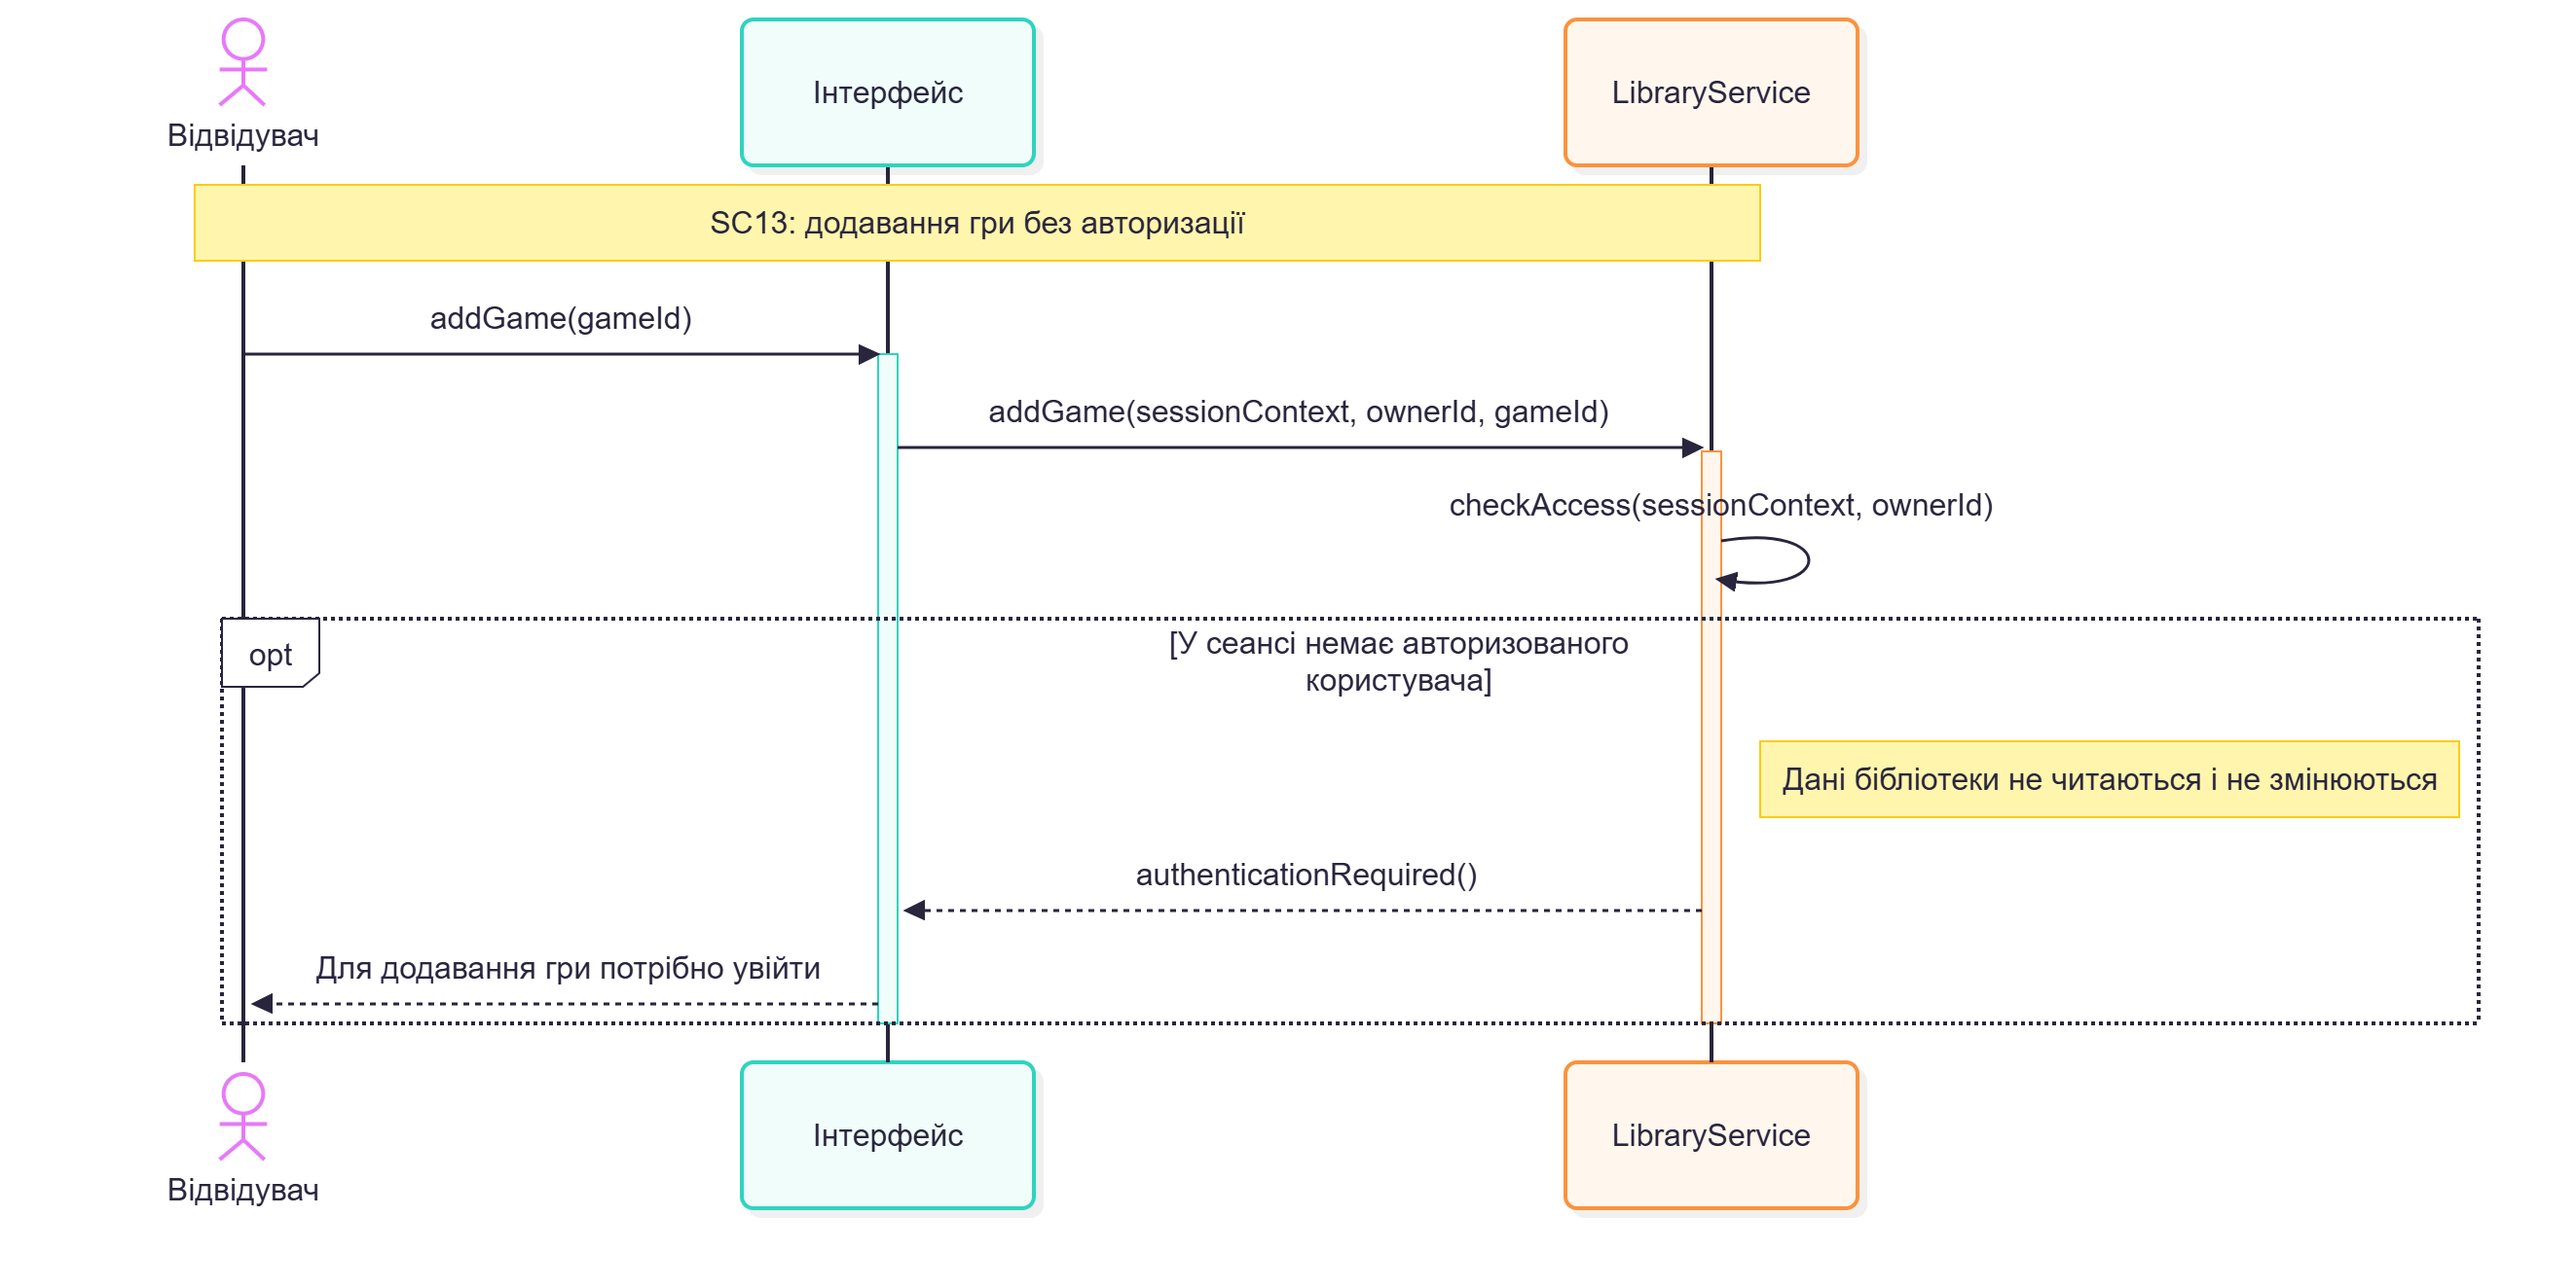
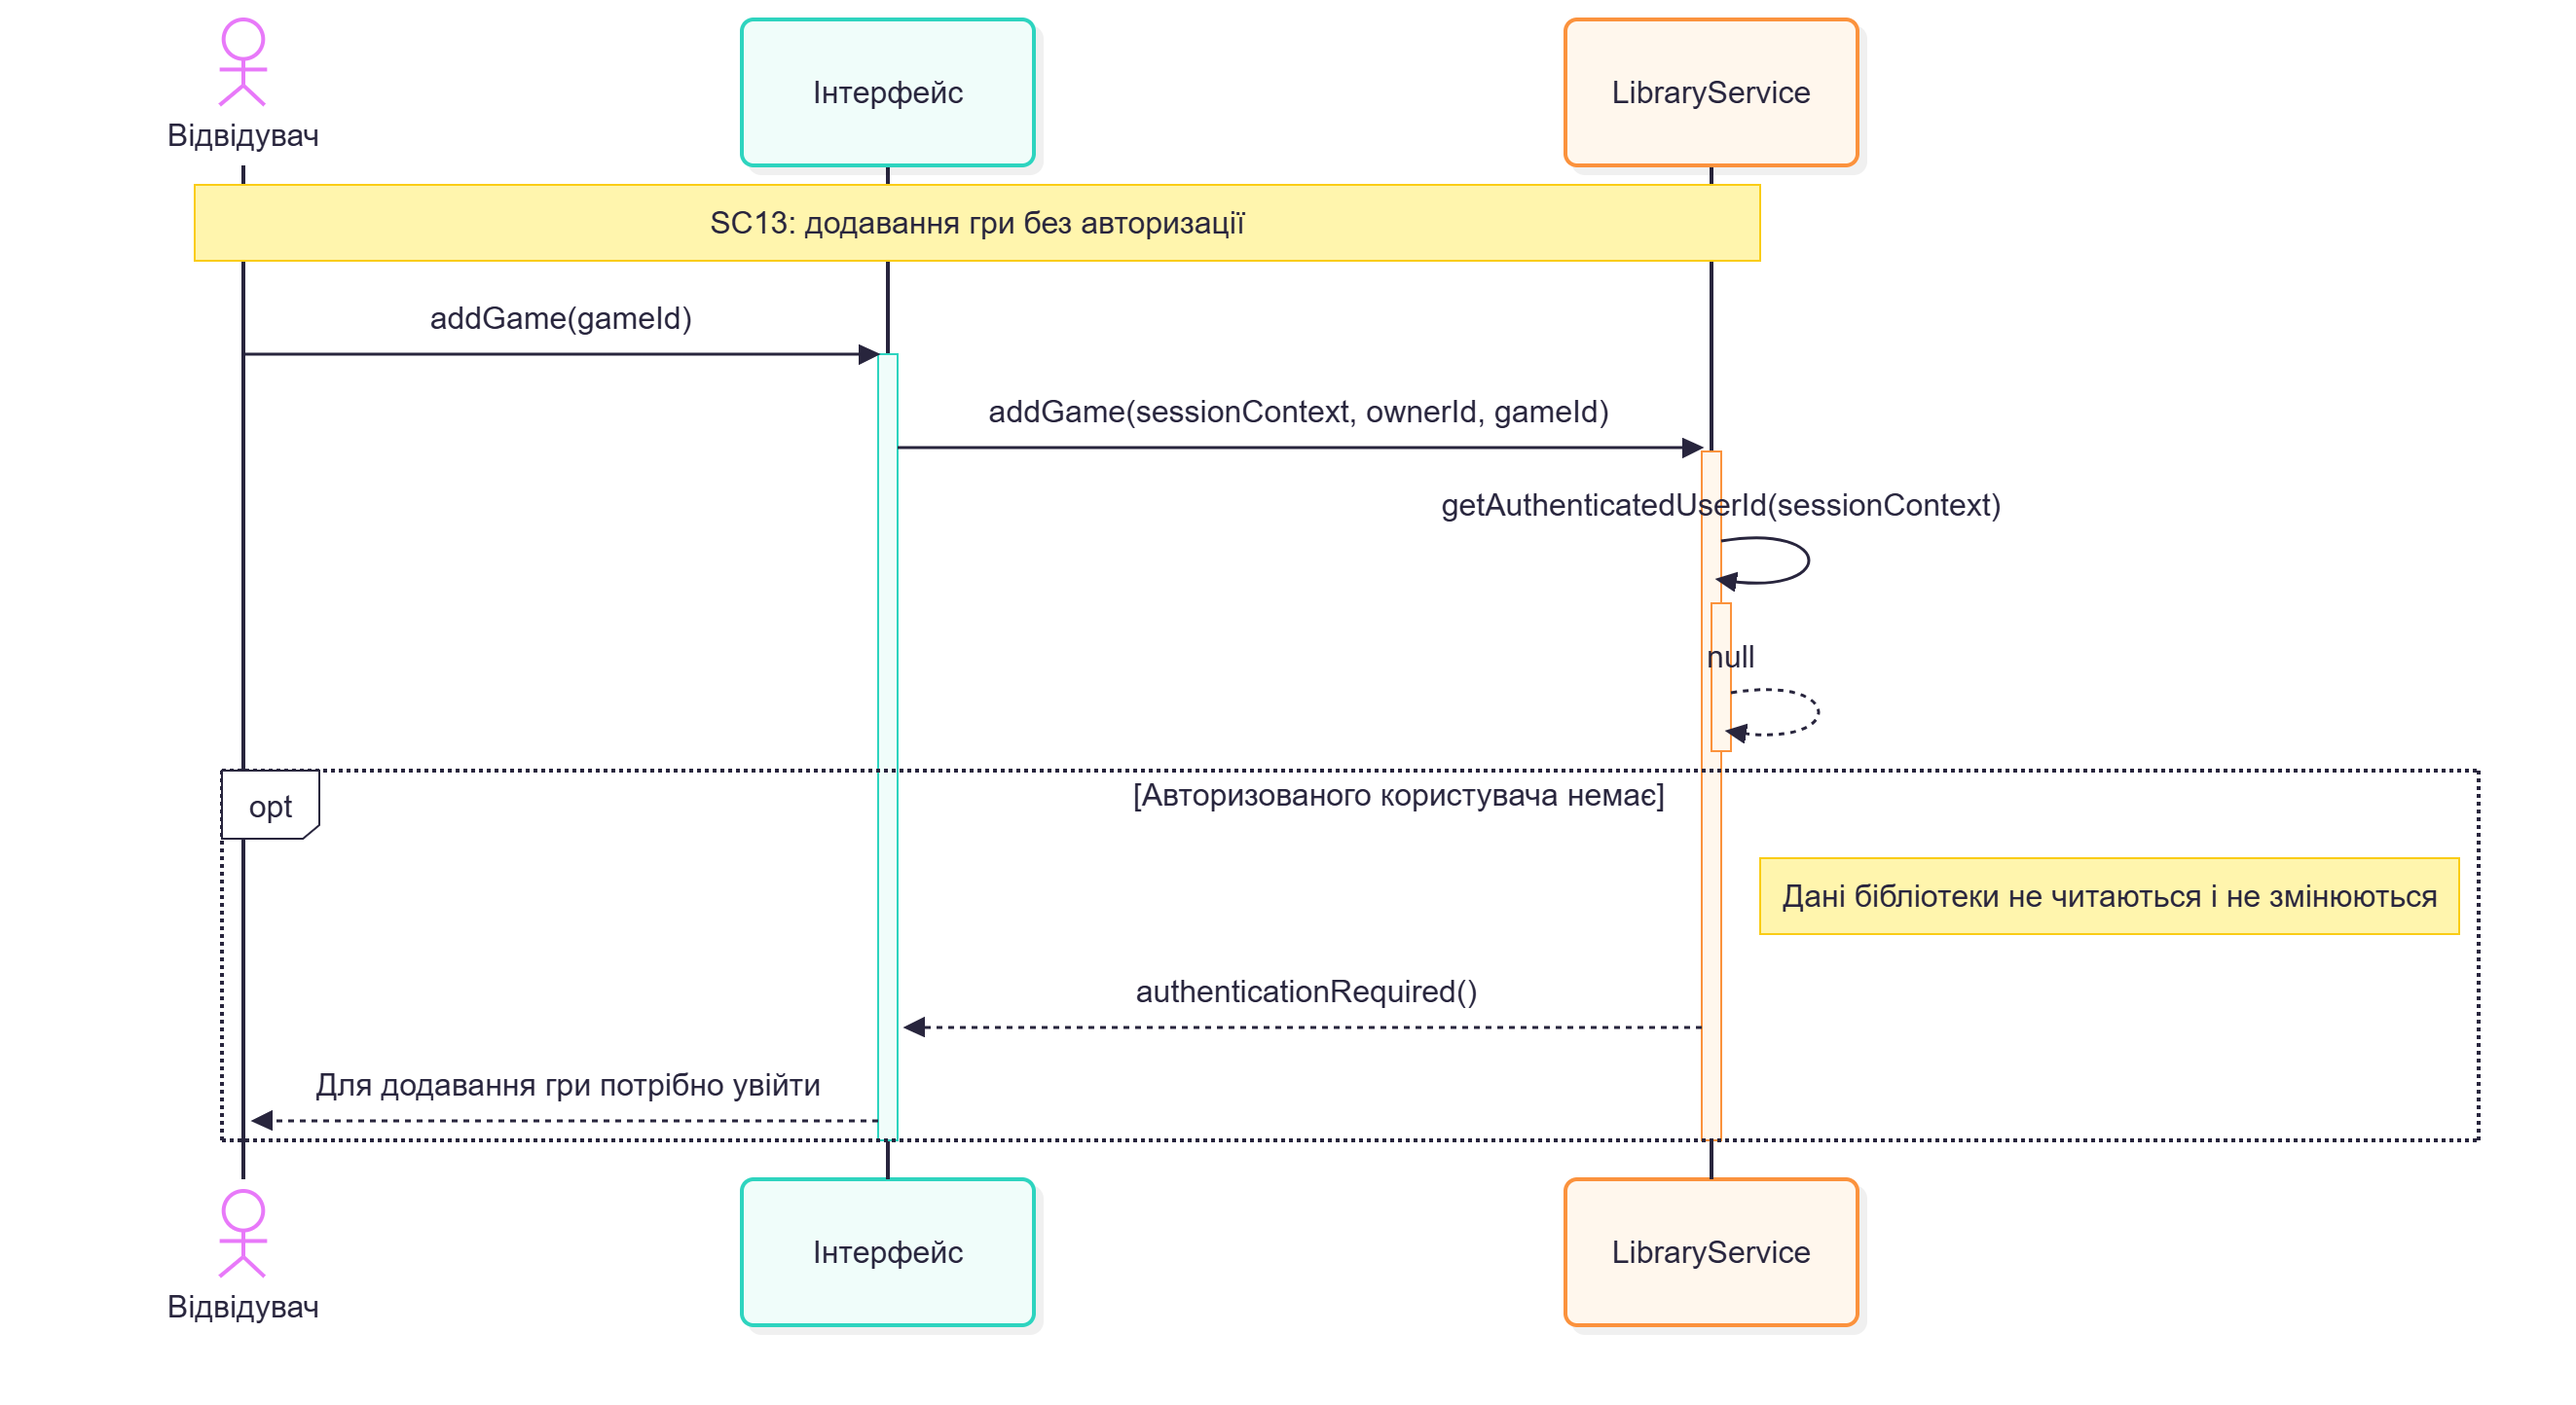
detail session identity checks in access scenarios

diff --git a/Lab3/spec.md b/Lab3/spec.md
@@ -53,6 +53,21 @@ LibraryService отримує ідентифікатор поточного USER
 з перевіреного контексту сеансу. Ідентифікатор власника
 бібліотеки із запиту не є доказом права доступу.
 
+У сценаріях SC13 і SC14 перевірку доступу деталізовано:
+внутрішній метод getAuthenticatedUserId(sessionContext)
+повертає ідентифікатор користувача з перевіреного сеансу
+або null, якщо авторизованого користувача немає.
+
+Якщо ідентифікатор відсутній, система відхиляє запит
+і повідомляє про необхідність входу — SC13.
+Якщо ідентифікатор є, система порівнює його з власником
+бібліотеки. Якщо вони не збігаються, система відмовляє
+в доступі — SC14.
+
+В обох випадках відмови система не звертається
+до репозиторіїв, не розкриває вміст бібліотеки
+та не змінює дані.
+
 ## Сценарії та кроки
 
 ### SC17. Успішне додавання
